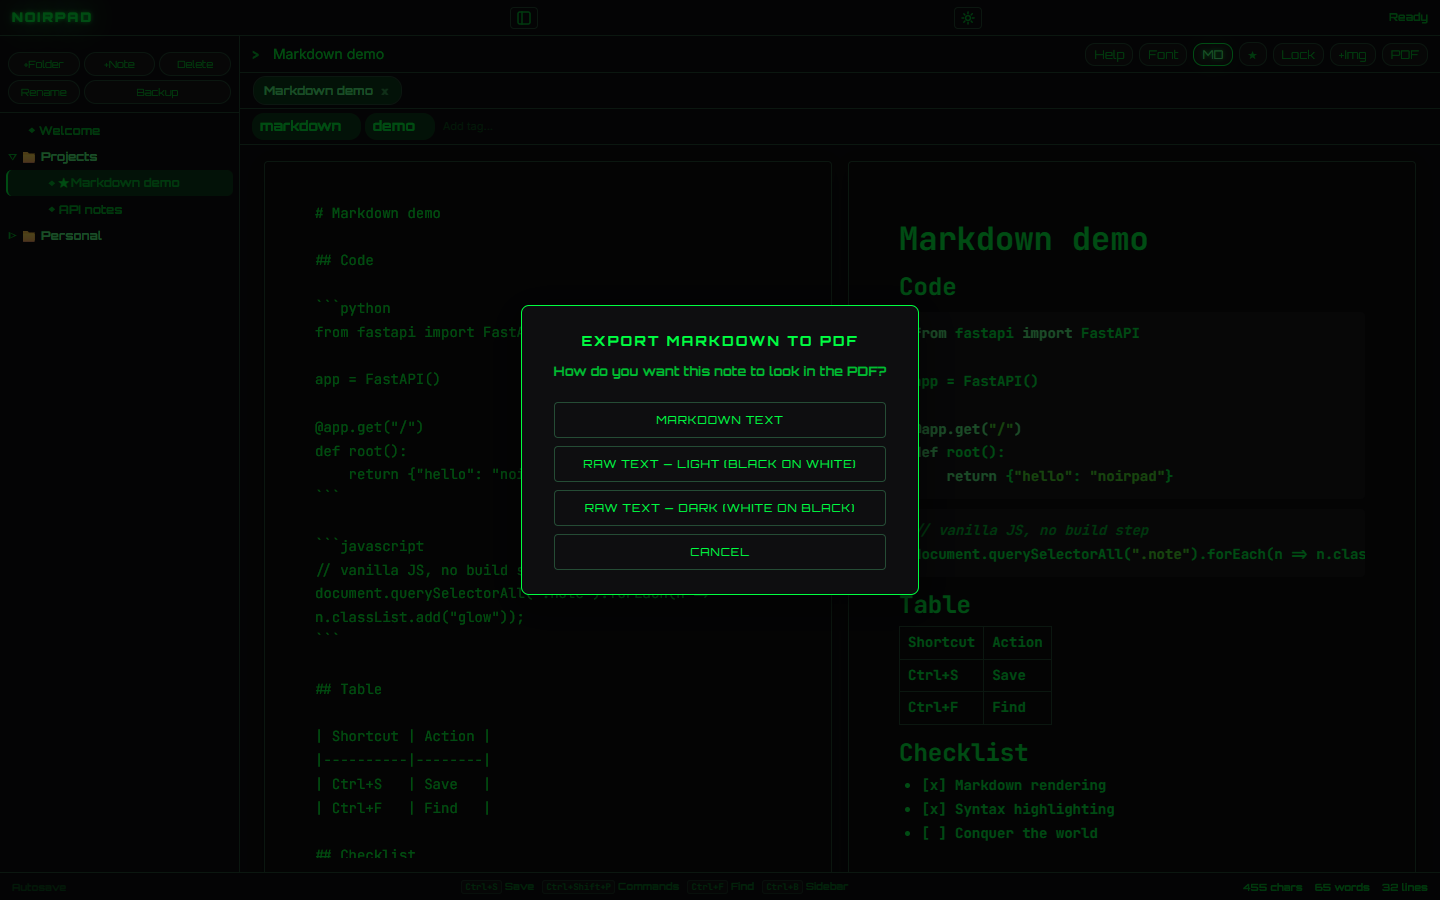
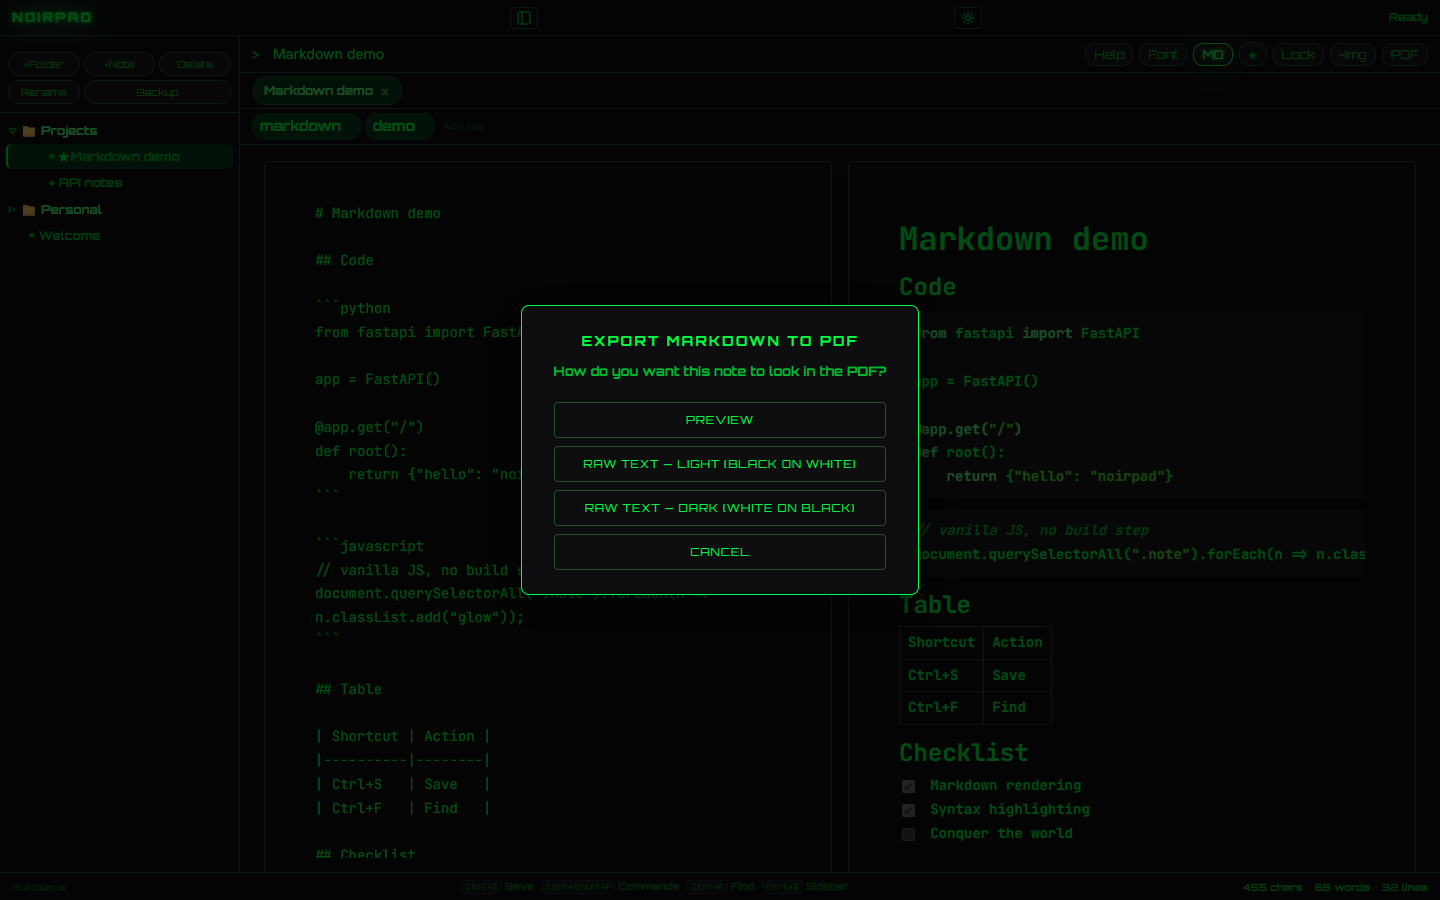
Fáze 3b: README a CHANGELOG podle skutečnosti, aktuální screenshoty
- README EN/CZ: odinstalace odstraní celou programovou složku, jazyk
  z instalátoru, „Uložit jako“ + Otevřít složku u exportů, heslo
  min. 4 znaky (upozornění pod 8)
- CHANGELOG: datum 1.0.0 → 2026-10-14
- docs/screenshots přegenerované (pořadí stromu podle N2, nové dialogy)

Changed region(s): [[0.0, 0.1244, 0.125, 0.28], [0.625, 0.8711, 0.7812, 0.9333], [0.4688, 0.4667, 0.5, 0.4978]]

diff --git a/README.cs.md b/README.cs.md
@@ -30,10 +30,11 @@ aplikace. Ven vedou jen odkazy, na které sami kliknete.
 - **Hledání** – v poznámce, napříč všemi poznámkami, příkazová lišta (`Ctrl+Shift+P`).
 - **Obrázky** – vložení ze schránky, přetažením nebo tlačítkem; zoom přes `Ctrl`+kolečko.
 - **Export** – poznámka jako TXT, HTML nebo PDF; vše jako soubory Markdown nebo HTML v ZIPu.
+  Desktopová aplikace se zeptá, kam uložit („Uložit jako“), a pak nabídne *Otevřít složku*.
 - **Import** – soubory Markdown nebo jejich ZIP (poznámky přidá, nic nemaže).
 - **Vzhled** – 17 motivů, písmo rozhraní i editoru, záře, CRT řádkování, Matrix rain, režim soustředění.
 - **Klávesnice na prvním místě** – každou zkratku jde přemapovat; nápověda přes `F1`.
-- **Čeština a angličtina** – podle jazyka systému, přepnout jde v Nastavení.
+- **Čeština a angličtina** – podle jazyka zvoleného v instalátoru, přepnout jde v Nastavení.
 
 ## Stažení
 
@@ -60,8 +61,9 @@ Get-FileHash .\NoirPad-Setup-1.0.0.exe -Algorithm SHA256
 | Automatické zálohy | `%LOCALAPPDATA%\NoirPad\backups\` – posledních 7, nejvýš jedna za 10 minut, a kopie před každým importem zálohy |
 | Log | `%LOCALAPPDATA%\NoirPad\logs\noirpad.log` – spuštění a chyby, nikdy obsah poznámek |
 
-Složku otevřete vložením `%LOCALAPPDATA%\NoirPad` do adresního řádku Průzkumníka. Odinstalace se
-zeptá, jestli ji smazat taky (výchozí volba: nechat).
+Složku otevřete vložením `%LOCALAPPDATA%\NoirPad` do adresního řádku Průzkumníka. Odinstalace
+úplně odstraní programovou složku (`%LOCALAPPDATA%\Programs\NoirPad`) a zeptá se, jestli smazat
+i složku s daty (výchozí volba: nechat).
 
 - **Záloha:** Nastavení → Data → *Stáhnout zálohu* uloží ZIP se všemi poznámkami a obrázky.
   *Importovat zálohu* všechny poznámky **nahradí** obsahem ZIPu (předtím se uloží bezpečnostní kopie).
@@ -75,7 +77,8 @@ zeptá, jestli ji smazat taky (výchozí volba: nechat).
 
 **Zamčené poznámky** (tlačítko Zamknout / `Ctrl+Shift+L`) jsou šifrované vaším heslem:
 Fernet (AES-128-CBC + HMAC-SHA256) s klíčem z PBKDF2-SHA256, 480 000 iterací a náhodnou solí pro
-každou poznámku.
+každou poznámku. Heslo musí mít aspoň 4 znaky (stejně jako u zámku aplikace); pod 8 znaků NoirPad
+upozorní, že krátké heslo jde snadno prolomit.
 
 | Šifrované | Nešifrované |
 |---|---|

diff --git a/README.md b/README.md
@@ -29,11 +29,13 @@ bundled. The only links that leave the app are the ones you click.
 - **App lock** (optional) — ask for a password whenever NoirPad starts or after inactivity.
 - **Search** — find in the note, search across all notes, command bar (`Ctrl+Shift+P`).
 - **Images** — paste, drag & drop or insert; zoom with `Ctrl`+wheel.
-- **Export** — a note as TXT, HTML or PDF; everything as Markdown files or HTML in a ZIP.
+- **Export** — a note as TXT, HTML or PDF; everything as Markdown files or HTML in a ZIP. The
+  desktop app asks where to save (“Save as”) and then offers *Open folder*.
 - **Import** — Markdown files or a ZIP of them (adds notes, never deletes).
 - **Look** — 17 themes, UI and editor fonts, glow, CRT scanlines, Matrix rain, focus mode.
 - **Keyboard first** — every shortcut can be remapped; built-in help with `F1`.
-- **English and Czech UI** — follows your system language, switchable in Settings.
+- **English and Czech UI** — starts in the language you chose in the installer, switchable in
+  Settings.
 
 ## Download
 
@@ -60,8 +62,9 @@ Get-FileHash .\NoirPad-Setup-1.0.0.exe -Algorithm SHA256
 | Automatic snapshots | `%LOCALAPPDATA%\NoirPad\backups\` — the last 7, at most one per 10 minutes, plus a copy before every backup import |
 | Log | `%LOCALAPPDATA%\NoirPad\logs\noirpad.log` — start-up and errors, never note content |
 
-Paste `%LOCALAPPDATA%\NoirPad` into the Explorer address bar to open the folder. Uninstalling asks
-whether to delete it too (default: keep it).
+Paste `%LOCALAPPDATA%\NoirPad` into the Explorer address bar to open the folder. Uninstalling
+removes the program folder (`%LOCALAPPDATA%\Programs\NoirPad`) completely and asks whether to delete
+your data folder too (default: keep it).
 
 - **Backup:** Settings → Data → *Download backup* saves a ZIP with all notes and images.
   *Import backup* **replaces** all notes with the ZIP's content (a safety copy is made first).
@@ -75,7 +78,8 @@ whether to delete it too (default: keep it).
 
 **Locked notes** (Lock button / `Ctrl+Shift+L`) are encrypted with your password:
 Fernet (AES-128-CBC + HMAC-SHA256) with a key from PBKDF2-SHA256, 480 000 iterations and a random
-salt per note.
+salt per note. A password needs at least 4 characters (the same for the app lock); below 8 NoirPad
+reminds you that short passwords are easy to crack.
 
 | Encrypted | Not encrypted |
 |---|---|

diff --git a/CHANGELOG.md b/CHANGELOG.md
@@ -2,7 +2,7 @@
 
 All notable changes to NoirPad. Versions follow [Semantic Versioning](https://semver.org/).
 
-## [1.0.0] – 2026-10-12
+## [1.0.0] – 2026-10-14
 
 First public release.
 
